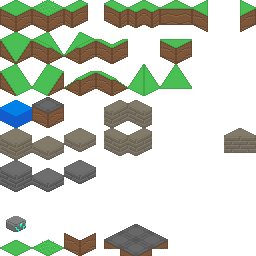
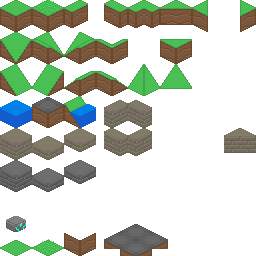
some terrain generation experiments

Changed region(s): [[0.25, 0.375, 0.375, 0.5]]

diff --git a/core/src/dbast/prometheus/engine/world/WorldSpace.java b/core/src/dbast/prometheus/engine/world/WorldSpace.java
@@ -7,7 +7,9 @@ import com.badlogic.gdx.math.Vector3;
 import dbast.prometheus.engine.config.PrometheusConfig;
 import dbast.prometheus.engine.entity.EntityRegistry;
 import dbast.prometheus.engine.entity.components.*;
+import dbast.prometheus.engine.world.generation.GenerationUtils;
 import dbast.prometheus.engine.world.generation.PlaceFeature;
+import dbast.prometheus.engine.world.generation.features.CastleTower;
 import dbast.prometheus.engine.world.generation.features.Mountain;
 import dbast.prometheus.engine.world.tile.Tile;
 import dbast.prometheus.engine.world.tile.TileRegistry;
@@ -15,6 +17,7 @@ import dbast.prometheus.utils.GeneralUtils;
 import dbast.prometheus.utils.Vector3Comparator;
 
 import java.util.*;
+import java.util.stream.IntStream;
 
 // TODO WorldSpace builder from a level file
 public class WorldSpace {
@@ -171,7 +174,7 @@ public class WorldSpace {
     }
 
     public static WorldSpace waveFunctionTest() {
-        WorldSpace worldSpace = new WorldSpace(64, 64);
+        WorldSpace worldSpace = new WorldSpace(30, 30);
         boolean useIsometric = (Boolean) PrometheusConfig.conf.getOrDefault("isometric", false);
 
 
@@ -184,7 +187,7 @@ public class WorldSpace {
         List<Tile> all = Arrays.asList(grassTile, waterTile, dirtTile, treeTile);
 
         tileRules.put(waterTile, Arrays.asList(
-                waterTile, waterTile, waterTile, waterTile, grassTile
+                waterTile, waterTile, waterTile, grassTile
         ));
         tileRules.put(dirtTile, Arrays.asList(
                 dirtTile, grassTile, grassTile
@@ -193,14 +196,17 @@ public class WorldSpace {
                 treeTile, grassTile, grassTile
         ));
         tileRules.put(grassTile, Arrays.asList(
-                grassTile, grassTile, grassTile, treeTile, dirtTile, waterTile
+               grassTile, grassTile, grassTile, treeTile, dirtTile,
+                grassTile, grassTile, grassTile, treeTile, dirtTile,
+                grassTile, grassTile, grassTile,
+                waterTile
         ));
 
         Map<Vector3, List<Tile>> allowedTiles = new TreeMap<>(new Vector3Comparator.Planar());
 
         // Step 1 go over terrain and randomly add blocks
 
-        for(int i = 0; i <= 30; i++) {
+        for(int i = 0; i <= 10; i++) {
             float y = (float) Math.floor((Math.random()*worldSpace.height));
             float x = (float) Math.floor((Math.random()*worldSpace.width));
             /*
@@ -213,25 +219,40 @@ public class WorldSpace {
             allowedTiles.put(position, Collections.singletonList(selectedForPosition));
 
             List<Tile> allowedNeighbors = tileRules.get(selectedForPosition);
-            Vector3[] nearbys = new Vector3[]{
-                    position.cpy().add(-1,0,0),
-                    position.cpy().add(1,0,0),
-                    position.cpy().add(0,-1,0),
-                    position.cpy().add(0,1,0),
-            };
-            for(Vector3 nearbyTile : nearbys) {
+
+            for(Vector3 nearbyTile : GenerationUtils.nearby8Of(position)) {
                 List<Tile> allowedForPosition = allowedTiles.get(nearbyTile);
                 if (allowedForPosition == null) {
                     allowedForPosition = allowedNeighbors;
                 } else if (allowedForPosition.size() > 1){
                     allowedForPosition.retainAll(allowedNeighbors);
+                } else if (allowedForPosition.size() == 1) {
+                    continue;
                 }
                 allowedTiles.put(nearbyTile, new ArrayList<Tile>(allowedForPosition));
             }
         }
 
+        // step 1.5 manually place blocks to try how things adapt
+
+        IntStream.range(0,worldSpace.width).mapToObj(x->
+          //  new Vector3(x, (float) Math.floor(Math.sin(0.125*x)*4) + 4, 0)
+            new Vector3(x, (float) Math.floor(0.25*x) + 7, 0)
+        ).forEach(position -> {
+                allowedTiles.put(position, Collections.singletonList(waterTile));
+                Vector3[] nearbys = new Vector3[]{
+                        position.cpy().add(0, 2, 0),
+                        position.cpy().add(0, 1, 0),
+                        position.cpy().add(0, -1, 0),
+                        position.cpy().add(0, -2, 0),
+                };
+                for (Vector3 nearbyTile : nearbys) {
+                    allowedTiles.put(nearbyTile, Collections.singletonList(waterTile));
+                }
+        });
+
         // Step 2 go over terrain and determine a random allowed tile from the given list and update all neighbors if not already determined
-       boolean smoothing = true;
+       boolean smoothing = false;
         if (smoothing) {
 
             int maxTerrainCycles = 64;
@@ -247,18 +268,15 @@ public class WorldSpace {
                             allowedTiles.put(position, Collections.singletonList(selectedForPosition));
 
                             List<Tile> allowedNeighbors = tileRules.get(selectedForPosition);
-                            Vector3[] nearbys = new Vector3[]{
-                                    position.cpy().add(-1,0,0),
-                                    position.cpy().add(1,0,0),
-                                    position.cpy().add(0,-1,0),
-                                    position.cpy().add(0,1,0),
-                            };
-                            for(Vector3 nearbyTile : nearbys) {
+
+                            for(Vector3 nearbyTile : GenerationUtils.nearby8Of(position)) {
                                 allowedForPosition = allowedTiles.get(nearbyTile);
                                 if (allowedForPosition == null) {
                                     allowedForPosition = allowedNeighbors;
                                 } else if (allowedForPosition.size() > 1){
                                     allowedForPosition.retainAll(allowedNeighbors);
+                                } else if (allowedForPosition.size() == 1) {
+                                    continue;
                                 }
                                 allowedTiles.put(nearbyTile, new ArrayList<Tile>(allowedForPosition));
                             }
@@ -268,9 +286,53 @@ public class WorldSpace {
                     }
                 }
             }
-
         }
 
+        // New Step 2 go over all and finalize if needed.
+        boolean growthSmoothing = true;
+        if (growthSmoothing) {
+            while (allowedTiles.entrySet().stream().anyMatch(allowed->
+                    allowed.getKey().x >= 0 && allowed.getKey().y >= 0 &&
+                    allowed.getKey().x < worldSpace.width && allowed.getKey().y < worldSpace.height &&
+                    allowed.getValue().size() > 1)) {
+                Set<Vector3> positions = allowedTiles.keySet();
+
+                for (Vector3 position : positions.toArray(new Vector3[0])) {
+                    List<Tile> allowedForPosition = allowedTiles.get(position);
+
+                    if (allowedForPosition.size() >= 1) {
+                        Tile positionTile;
+                        if (allowedForPosition.size() == 1) {
+                            positionTile = allowedForPosition.get(0);
+                        } else {
+                            positionTile = GeneralUtils.randomElement(allowedForPosition);
+                            allowedTiles.put(position, Collections.singletonList(positionTile));
+                        }
+
+                        List<Tile> allowedNeighbors = tileRules.get(positionTile);
+
+                        for(Vector3 nearbyTile : GenerationUtils.nearby8Of(position)) {
+                            if (nearbyTile.x >= 0 && nearbyTile.y >= 0 &&
+                                nearbyTile.x < worldSpace.width && nearbyTile.y < worldSpace.height
+                            ) {
+                                allowedForPosition = allowedTiles.get(nearbyTile);
+                                if (allowedForPosition == null) {
+                                    allowedForPosition = allowedNeighbors;
+                                } else if (allowedForPosition.size() > 1){
+                                    allowedForPosition.retainAll(allowedNeighbors);
+                                } else if (allowedForPosition.size() == 1) {
+                                    continue;
+                                }
+                                allowedTiles.put(nearbyTile, new ArrayList<Tile>(allowedForPosition));
+                            }
+                        }
+                    }
+                   // Gdx.app.getApplicationLogger().log("World Setup", String.format("Position %s has %s number of valid tiles", position, allowedForPosition.size()));
+                };
+            }
+        }
+
+        // STEP 3: PLace actual tiles in worldspace
         allowedTiles.forEach((position, allowed) -> {
             if (allowed.size() > 1) {
                 Gdx.app.getApplicationLogger().log("generation", String.format("Error at %s: Position has multiple states: %s", position, allowed.size()));
@@ -281,8 +343,25 @@ public class WorldSpace {
                 worldSpace.placeTile(grassTile, position.x, position.y, z);
                 z++;
             }
+            if (tile.equals(waterTile)) {
+                worldSpace.placeTile(dirtTile, position.x, position.y, z - 1);
+            }
             worldSpace.placeTile(tile, position.x, position.y, z);
         });
+
+        // Step 4 as terrain was generated, build features
+        List<PlaceFeature> features = Arrays.asList(
+                new Mountain("grass_0"), new CastleTower("brickF")
+        );
+
+        for(int i = 0; i <= 5; i++) {
+            float y = (float) Math.floor((Math.random()*worldSpace.height));
+            float x = (float) Math.floor((Math.random()*worldSpace.width));
+            float z = 0f;
+            int feature = (int) (Math.random() * features.size());
+
+            features.get(feature).place(worldSpace, x, y, z);
+        }
 
 
         worldSpace.entities = new EntityRegistry();
@@ -372,7 +451,7 @@ public class WorldSpace {
                     world.placeTile(TileRegistry.idOfTag("grass_0"), x, y, z+1);
                     world.placeTile(TileRegistry.idOfTag("dirt_0"), x, y, z);
                 },
-                new Mountain(),
+                new Mountain("grass_0"),
                 (world, x, y, z) -> {
                     // place plain
                     int scale = 2+ (int) (Math.random() * 10);
@@ -424,7 +503,7 @@ public class WorldSpace {
                 }
         );
         features = Arrays.asList(
-                new Mountain());
+                new Mountain("grass_0"), new CastleTower("brickF"));
         // Step 2 go over terrain and randomly place features
 
         for(int i = 0; i <= 30; i++) {

diff --git a/core/src/dbast/prometheus/engine/world/generation/features/CastleTower.java b/core/src/dbast/prometheus/engine/world/generation/features/CastleTower.java
@@ -1,0 +1,57 @@
+package dbast.prometheus.engine.world.generation.features;
+
+import com.badlogic.gdx.math.MathUtils;
+import dbast.prometheus.engine.world.WorldSpace;
+import dbast.prometheus.engine.world.generation.PlaceFeature;
+import dbast.prometheus.engine.world.tile.TileRegistry;
+import dbast.prometheus.utils.GeneralUtils;
+
+public class CastleTower implements PlaceFeature {
+
+    private String tileTag;
+
+    public CastleTower(String tileTag) {
+        this.tileTag = tileTag;
+    }
+
+    @Override
+    public void place(WorldSpace world, float x, float y, float z) {
+        float maxZ = (float) (Math.floor((Math.random() * 3) + 1) * 4);
+
+        int scaleX = 4;
+        int scaleY = 4;
+
+        for (float z2 = 0; z2 <= maxZ; z2++) {
+            for (float y2 = 0; y2 < scaleY; y2++) {
+                for (float x2 = 0; x2 < scaleX; x2++) {
+                    world.removeTile(x+x2, y+y2, z+z2);
+                    if (z2 %4 == 0 || z2 == maxZ) {
+                        world.placeTile(TileRegistry.idOfTag(tileTag), x+x2, y+y2, z+z2);
+                        /*if (x2 % (scaleX - 1)== 0 || y2 % (scaleY - 1) == 0) {
+                            world.placeTile(TileRegistry.idOfTag(tileTag), x+x2, y+y2, z+z2);
+                        } else {
+                            world.placeTile(TileRegistry.idOfTag("glass_top"),x+x2, y+y2, z+z2);
+                        }*/
+                    }
+                    else if (!(
+                                GeneralUtils.isBetween(x2, 0f, scaleX - 1, false)
+                            && GeneralUtils.isBetween(y2, 0f, scaleY - 1, false)
+                    )) {
+                        world.removeTile(x+x2, y+y2, z+z2);
+                        world.placeTile(TileRegistry.idOfTag(tileTag), x+x2, y+y2, z+z2);
+                    } /*else if (!( GeneralUtils.isBetween(x2, 0f, scaleX - 1, false)
+                            || GeneralUtils.isBetween(y2, 0f, scaleY - 1, false))) {
+                        world.placeTile(TileRegistry.idOfTag(tileTag), x+x2, y+y2, z+z2);
+                    }*/
+                    if (z2 == maxZ) {
+                        if (!(GeneralUtils.isBetween(x2, 0f, scaleX - 1, false)
+                            || GeneralUtils.isBetween(y2, 0f, scaleY - 1, false)
+                        )) {
+                            world.placeTile(TileRegistry.idOfTag(tileTag), x+x2, y+y2, z+z2+ 1);
+                        }
+                    }
+                }
+            }
+        }
+    }
+}

diff --git a/core/src/dbast/prometheus/engine/scene/WorldScene.java b/core/src/dbast/prometheus/engine/scene/WorldScene.java
@@ -69,6 +69,7 @@ public class WorldScene extends AbstractScene{
                     new Tile("grass_top", new Texture(Gdx.files.internal("world/terrain/iso/grass_top.png"))),
                     new Tile("debug", new Texture(Gdx.files.internal("world/terrain/debug_tile.png"))),
                     new Tile("brickF", new Texture(Gdx.files.internal("world/terrain/iso/brick_full.png"))),
+                    new Tile("glass_top", new Texture(Gdx.files.internal("world/terrain/iso/glass.png"))),
                     new Tile("tree", new Texture(Gdx.files.internal("world/environment/"+ ((useIsometric) ?  "iso_" : "") +"tree.png"))),
                     new Tile("treeS", new Texture(Gdx.files.internal("world/environment/"+ ((useIsometric) ?  "iso_" : "") +"tree_short.png"))),
                     new Tile("cube", new Texture(Gdx.files.internal("iso_cube.png")))
@@ -78,7 +79,9 @@ public class WorldScene extends AbstractScene{
                 new Tile("water", new Texture(Gdx.files.internal("world/terrain/water.png"))),
                 new Tile("dirt_0", new Texture(Gdx.files.internal("world/terrain/dirt_full.png"))),
                 new Tile("grass_0", new Texture(Gdx.files.internal("world/terrain/grass.png"))),
-                new Tile("debug", new Texture(Gdx.files.internal("world/terrain/debug_tile.png")))
+                new Tile("debug", new Texture(Gdx.files.internal("world/terrain/debug_tile.png"))),
+                    new Tile("tree", new Texture(Gdx.files.internal("world/environment/tree.png"))),
+                    new Tile("treeS", new Texture(Gdx.files.internal("world/environment/tree.png")))
             );
         }
 

diff --git a/core/src/dbast/prometheus/engine/world/generation/features/Mountain.java b/core/src/dbast/prometheus/engine/world/generation/features/Mountain.java
@@ -6,6 +6,12 @@ import dbast.prometheus.engine.world.tile.TileRegistry;
 
 public class Mountain implements PlaceFeature {
 
+    private String tileTag;
+
+    public Mountain(String tileTag) {
+        this.tileTag = tileTag;
+    }
+
     @Override
     public void place(WorldSpace world, float x, float y, float z) {
         float maxWidth = 3+(float)Math.random() * 16f;
@@ -24,7 +30,7 @@ public class Mountain implements PlaceFeature {
                     float pY = y + y2;
                    //world.placeTile(TileRegistry.idOfTag("dirt_0"), pX, pY, z2-1);
                     //world.removeTile(pX, pY, z2-1);
-                    world.placeTile(TileRegistry.idOfTag("grass_0"), pX, pY, z2);
+                    world.placeTile(TileRegistry.idOfTag(tileTag), pX, pY, z2);
                 }
             }
             xOff++;
@@ -32,6 +38,5 @@ public class Mountain implements PlaceFeature {
             if (zInc * 0.75 > 0.125f)
                 zInc *=0.75f;
         }
-
     }
 }

diff --git a/core/src/dbast/prometheus/engine/world/generation/GenerationUtils.java b/core/src/dbast/prometheus/engine/world/generation/GenerationUtils.java
@@ -1,0 +1,28 @@
+package dbast.prometheus.engine.world.generation;
+
+import com.badlogic.gdx.math.Vector3;
+
+public class GenerationUtils {
+
+    public static Vector3[] nearby8Of(Vector3 center) {
+        return new Vector3[]{
+                center.cpy().add(1, -1, 0),
+                center.cpy().add(0, -1, 0),
+                center.cpy().add(-1, -1, 0),
+                center.cpy().add(-1, 0, 0),
+                center.cpy().add(1, 0, 0),
+                center.cpy().add(1, 1, 0),
+                center.cpy().add(0, 1, 0),
+                center.cpy().add(-1, 1, 0)
+        };
+    }
+    public static Vector3[] nearby4Of(Vector3 center) {
+        return new Vector3[]{
+                center.cpy().add(0, 1, 0),
+                center.cpy().add(0, -1, 0),
+                center.cpy().add(1, 0, 0),
+                center.cpy().add(-1, 0, 0)
+
+        };
+    }
+}

diff --git a/core/src/dbast/prometheus/utils/GeneralUtils.java b/core/src/dbast/prometheus/utils/GeneralUtils.java
@@ -34,4 +34,12 @@ public class GeneralUtils {
     public static <T> T randomElement(Collection<T> collection) {
         return (T)collection.toArray()[(int) (collection.size() * Math.random())];
     }
+
+    public static <N extends Number> boolean isBetween(N value, N rangeStart, N rangeEnd, boolean includeRange) {
+        if (includeRange) {
+            return value.doubleValue() >= rangeStart.doubleValue() && value.doubleValue() <= rangeEnd.doubleValue();
+        } else {
+            return value.doubleValue() > rangeStart.doubleValue() && value.doubleValue() < rangeEnd.doubleValue();
+        }
+    }
 }
